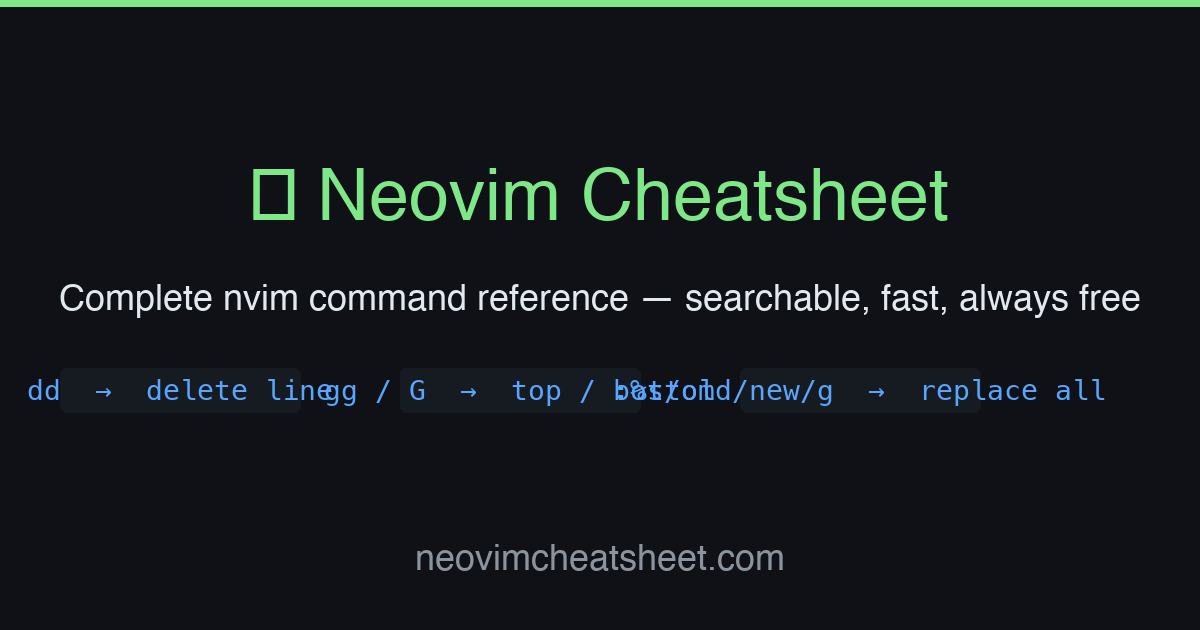
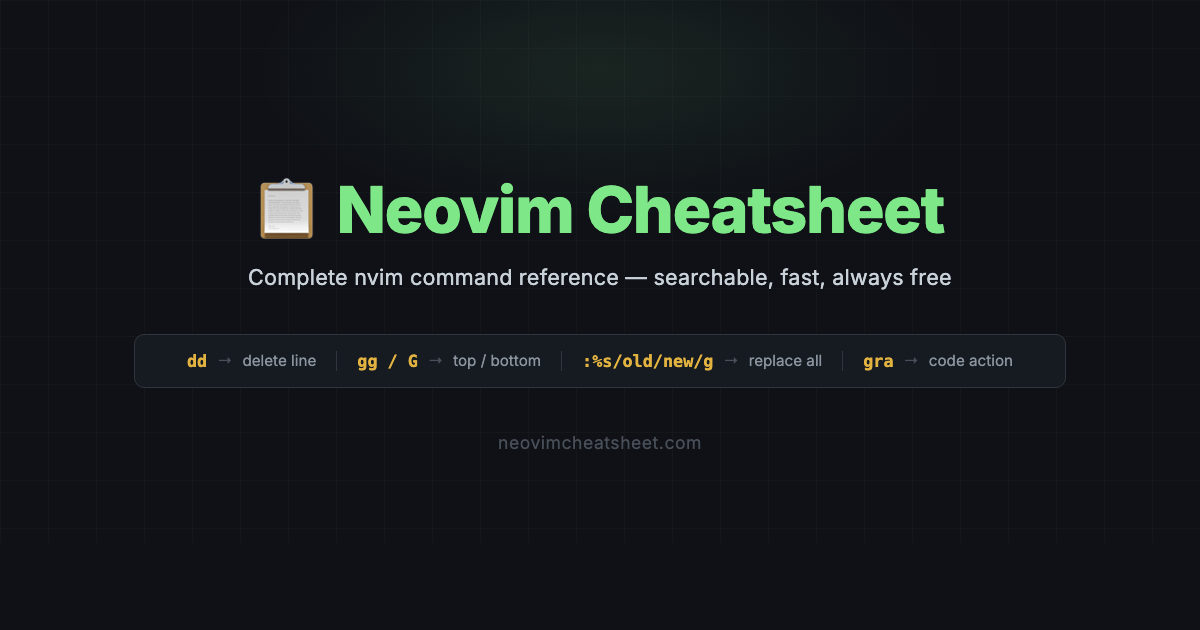
Add og-image.html source, regenerate og-image.png, add CLAUDE.md
- og-image.html: companion source file for the social preview image —
  matches site color scheme (green accent, dark bg, grid pattern, amber
  monospace commands, bottom accent bar); updated command strip to include
  gra (code action) reflecting the 0.10+ LSP keymap corrections
- og-image.png: regenerated from og-image.html via Chrome headless
- CLAUDE.md: project-level context covering stack, preview server port,
  file structure, tooltip system internals, LSP keymap notes, footer
  registry pattern, and og-image regeneration command

diff --git a/og-image.html b/og-image.html
@@ -1,0 +1,180 @@
+<!DOCTYPE html>
+<html>
+<head>
+<meta charset="UTF-8">
+<link rel="preconnect" href="https://fonts.googleapis.com">
+<link rel="preconnect" href="https://fonts.gstatic.com" crossorigin>
+<link href="https://fonts.googleapis.com/css2?family=JetBrains+Mono:wght@600;700&family=Inter:wght@400;600;700;800&display=swap" rel="stylesheet">
+<style>
+  * { box-sizing: border-box; margin: 0; padding: 0; }
+  html, body {
+    width: 1200px;
+    height: 630px;
+    overflow: hidden;
+  }
+  body {
+    background: #0f1117;
+    font-family: 'Inter', 'Segoe UI', sans-serif;
+    display: flex;
+    flex-direction: column;
+    justify-content: center;
+    align-items: center;
+    position: relative;
+  }
+
+  /* Subtle grid background */
+  .bg-grid {
+    position: absolute;
+    inset: 0;
+    background-image:
+      linear-gradient(#7ee78708 1px, transparent 1px),
+      linear-gradient(90deg, #7ee78708 1px, transparent 1px);
+    background-size: 48px 48px;
+  }
+
+  /* Top radial glow */
+  .bg-glow {
+    position: absolute;
+    top: -80px;
+    left: 50%;
+    transform: translateX(-50%);
+    width: 700px;
+    height: 300px;
+    background: radial-gradient(ellipse at center, #7ee78718 0%, transparent 70%);
+    pointer-events: none;
+  }
+
+  /* Bottom accent bar */
+  .bottom-bar {
+    position: absolute;
+    bottom: 0;
+    left: 0;
+    right: 0;
+    height: 4px;
+    background: linear-gradient(90deg, transparent, #7ee787, transparent);
+  }
+
+  .content {
+    position: relative;
+    z-index: 1;
+    text-align: center;
+    padding: 0 80px;
+  }
+
+  .title-row {
+    display: flex;
+    align-items: center;
+    justify-content: center;
+    gap: 20px;
+    margin-bottom: 22px;
+  }
+
+  .nvim-icon {
+    font-size: 3.8rem;
+    line-height: 1;
+  }
+
+  h1 {
+    font-size: 4rem;
+    font-weight: 800;
+    color: #7ee787;
+    letter-spacing: -1px;
+    line-height: 1;
+  }
+
+  .subtitle {
+    font-size: 1.35rem;
+    color: #c9d1d9;
+    font-weight: 400;
+    margin-bottom: 44px;
+    letter-spacing: 0.2px;
+  }
+
+  /* Command preview strip */
+  .commands {
+    display: flex;
+    gap: 0;
+    align-items: center;
+    justify-content: center;
+    flex-wrap: nowrap;
+    background: #161b22;
+    border: 1px solid #30363d;
+    border-radius: 10px;
+    padding: 16px 32px;
+    margin-bottom: 44px;
+  }
+
+  .cmd-pair {
+    display: flex;
+    align-items: center;
+    gap: 10px;
+    padding: 0 20px;
+    border-right: 1px solid #30363d;
+  }
+  .cmd-pair:last-child { border-right: none; }
+
+  .cmd-key {
+    font-family: 'JetBrains Mono', monospace;
+    font-size: 1.05rem;
+    font-weight: 700;
+    color: #e3b341;
+    white-space: nowrap;
+  }
+
+  .cmd-arrow {
+    color: #484f58;
+    font-size: 0.95rem;
+  }
+
+  .cmd-desc {
+    font-size: 0.95rem;
+    color: #8b949e;
+    white-space: nowrap;
+  }
+
+  .domain {
+    font-size: 1.1rem;
+    color: #484f58;
+    letter-spacing: 0.5px;
+  }
+</style>
+</head>
+<body>
+  <div class="bg-grid"></div>
+  <div class="bg-glow"></div>
+  <div class="bottom-bar"></div>
+
+  <div class="content">
+    <div class="title-row">
+      <span class="nvim-icon">📋</span>
+      <h1>Neovim Cheatsheet</h1>
+    </div>
+    <p class="subtitle">Complete nvim command reference — searchable, fast, always free</p>
+
+    <div class="commands">
+      <div class="cmd-pair">
+        <span class="cmd-key">dd</span>
+        <span class="cmd-arrow">→</span>
+        <span class="cmd-desc">delete line</span>
+      </div>
+      <div class="cmd-pair">
+        <span class="cmd-key">gg / G</span>
+        <span class="cmd-arrow">→</span>
+        <span class="cmd-desc">top / bottom</span>
+      </div>
+      <div class="cmd-pair">
+        <span class="cmd-key">:%s/old/new/g</span>
+        <span class="cmd-arrow">→</span>
+        <span class="cmd-desc">replace all</span>
+      </div>
+      <div class="cmd-pair">
+        <span class="cmd-key">gra</span>
+        <span class="cmd-arrow">→</span>
+        <span class="cmd-desc">code action</span>
+      </div>
+    </div>
+
+    <p class="domain">neovimcheatsheet.com</p>
+  </div>
+</body>
+</html>